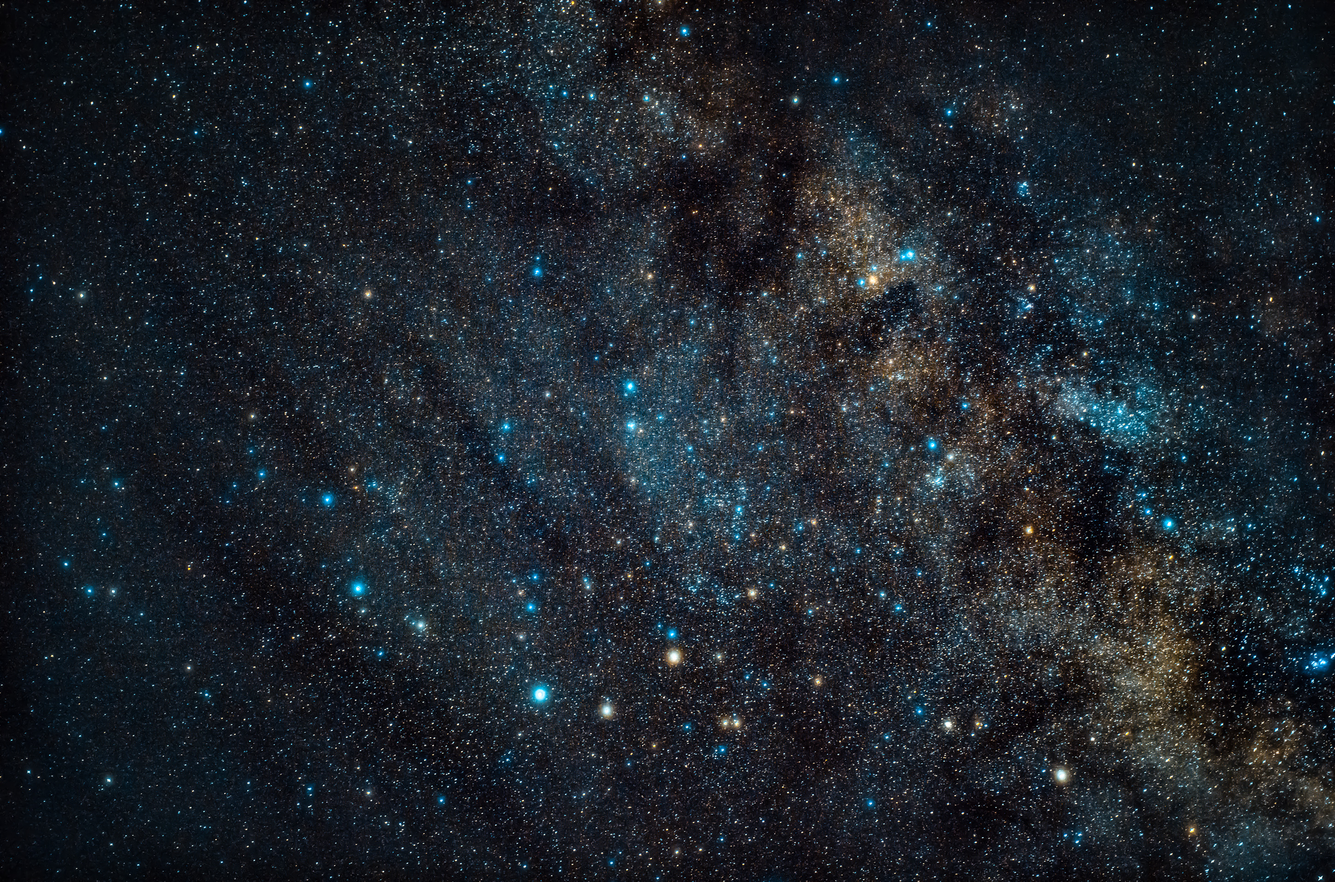
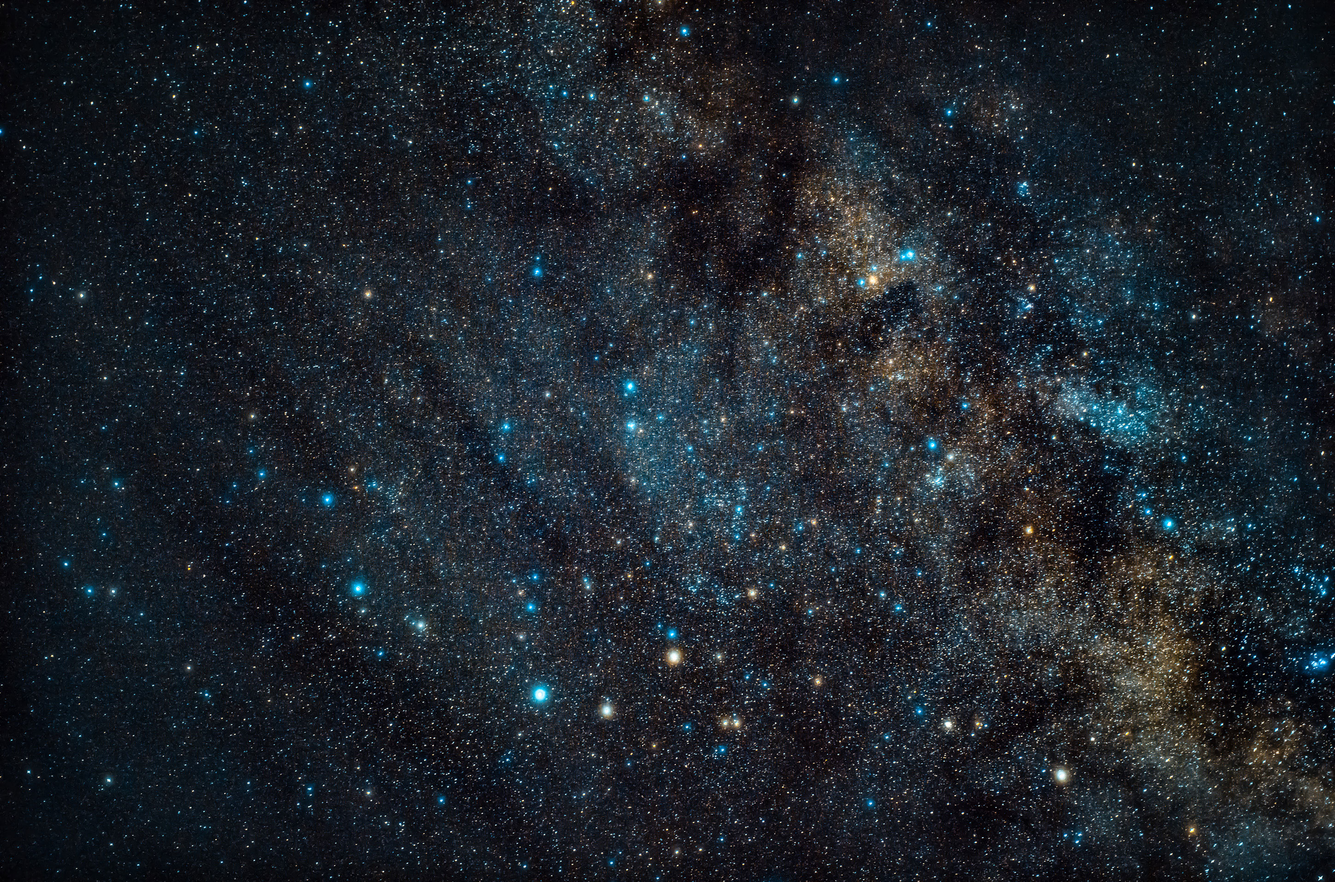
reducir el peso de las imagenes

diff --git a/index.html b/index.html
@@ -44,7 +44,7 @@
             </div>
           </div>
           <div class="carousel-item active" data-bs-interval="10000">
-            <img src="./assets/img/1st Centro Vialactea 2.png" class="d-block w-100" alt="...">
+            <img src="./assets/img/1st-Centro-Vialactea-2.jpg" class="d-block w-100" alt="...">
           </div>
           <div class="carousel-item" data-bs-interval="2000">
             <img src="./assets/img/M31 FullRes.jpg" class="d-block w-100" alt="...">
